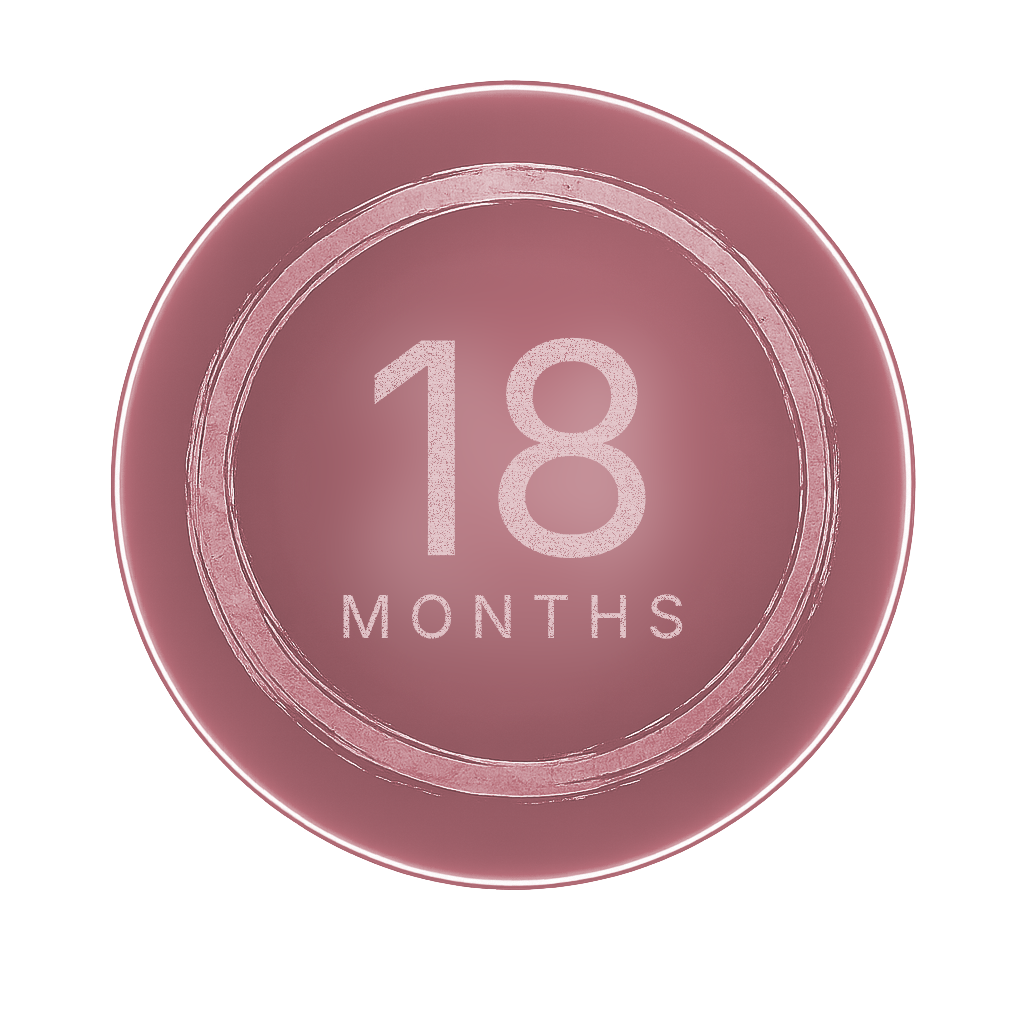
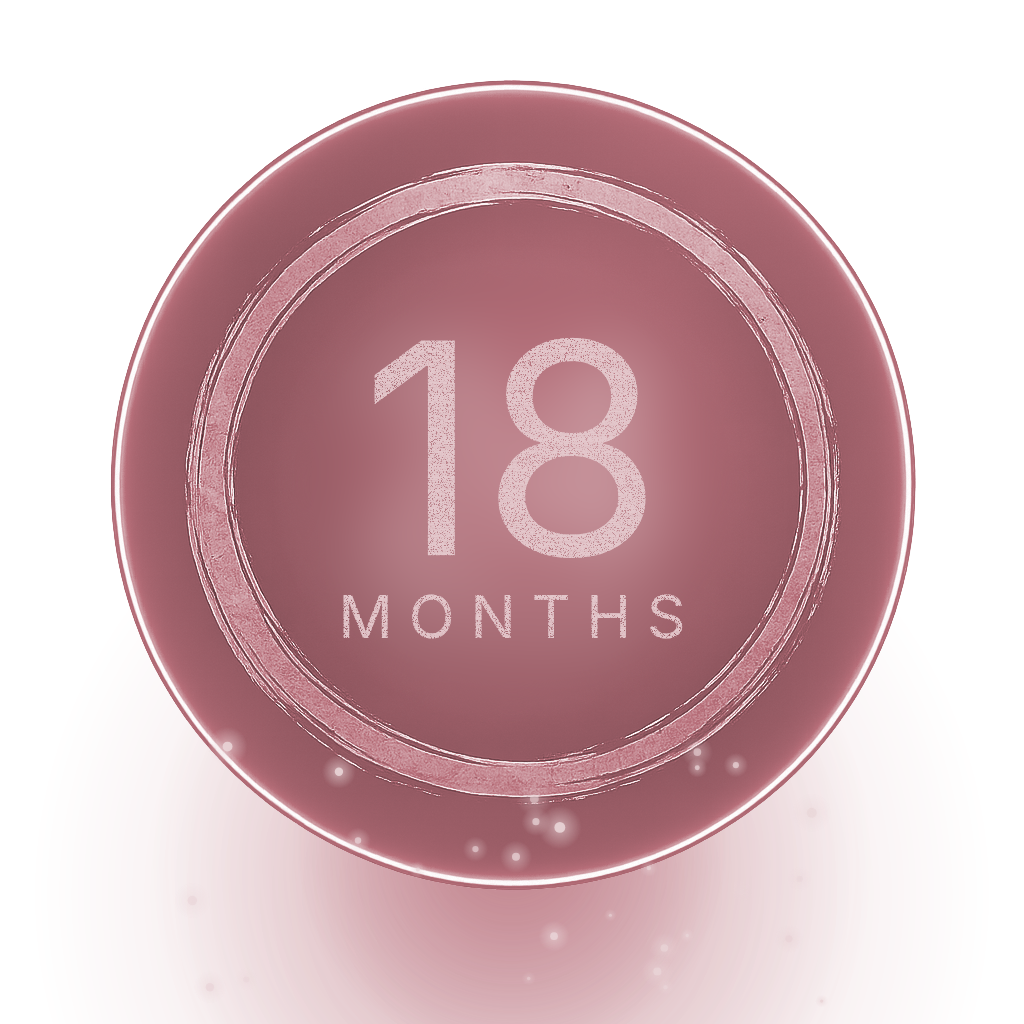
Add under-badge glow pool and sparkle particles in tint family
Three radial gradient passes pool the assigned color under the badge as
a directional bloom (bright core under the disc, wider bloom, faint
haze) instead of a 360° halo. Twenty-eight tinted sparkles seed off the
duration slug so each badge has a stable distinct pattern. Background
stays transparent for in-app use.

https://claude.ai/code/session_01TqmVcPLJNZuf7Q6XCPWgNk

Changed region(s): [[0.1875, 0.7188, 0.8125, 1.0], [0.3125, 0.7188, 0.3438, 0.7812], [0.6562, 0.7188, 0.6875, 0.75]]

diff --git a/scripts/generate-badges.ts b/scripts/generate-badges.ts
@@ -292,6 +292,70 @@ function applyTint(ctx: SKRSContext2D, hex: string) {
   ctx.putImageData(img, 0, 0)
 }
 
+// Paint a soft glow pooling underneath the badge — like the disc is
+// sitting on a glowing surface or casting light downward. No all-around
+// halo; the glow is a directional bloom centered below the disc.
+function drawOuterGlow(ctx: SKRSContext2D, hex: string) {
+  const [r, g, b] = hexToRgb(hex)
+
+  // Three downward-pooling passes: a bright core under the disc, a wider
+  // soft bloom, and a faint outer haze.
+  const passes = [
+    { cx: CX, cy: CY + 360, r0: 0,   r1: 220, alpha: 0.7  },
+    { cx: CX, cy: CY + 380, r0: 60,  r1: 360, alpha: 0.4  },
+    { cx: CX, cy: CY + 410, r0: 140, r1: 480, alpha: 0.22 },
+  ]
+
+  for (const p of passes) {
+    const grad = ctx.createRadialGradient(p.cx, p.cy, p.r0, p.cx, p.cy, p.r1)
+    grad.addColorStop(0, `rgba(${r}, ${g}, ${b}, ${p.alpha})`)
+    grad.addColorStop(1, `rgba(${r}, ${g}, ${b}, 0)`)
+    ctx.fillStyle = grad
+    ctx.fillRect(0, 0, SIZE, SIZE)
+  }
+}
+
+// Scatter sparkle particles in the tint family around the disc — small,
+// soft-edged dots concentrated below the badge with a few rising along
+// the sides. Drawn on top of everything so they read as light flecks.
+function drawSparkles(ctx: SKRSContext2D, hex: string, sparkleSeed: number) {
+  const [r, g, b] = hexToRgb(hex)
+  // Brighten toward white so sparkles register as light, not just tint.
+  const lr = Math.round(r + (255 - r) * 0.7)
+  const lg = Math.round(g + (255 - g) * 0.7)
+  const lb = Math.round(b + (255 - b) * 0.7)
+
+  let seed = sparkleSeed
+  const rand = () => {
+    seed = (seed * 1664525 + 1013904223) % 0x100000000
+    return seed / 0x100000000
+  }
+
+  const count = 28
+  for (let i = 0; i < count; i++) {
+    // Sparkles concentrate inside the glow pool under the badge.
+    const x = CX + (rand() - 0.5) * 640
+    const y = CY + 260 + rand() * 260
+    const size = 1.5 + rand() * 4
+    const alpha = 0.45 + rand() * 0.45
+
+    // Soft glow around each sparkle.
+    const glow = ctx.createRadialGradient(x, y, 0, x, y, size * 4)
+    glow.addColorStop(0, `rgba(${lr}, ${lg}, ${lb}, ${alpha * 0.7})`)
+    glow.addColorStop(1, `rgba(${lr}, ${lg}, ${lb}, 0)`)
+    ctx.fillStyle = glow
+    ctx.beginPath()
+    ctx.arc(x, y, size * 4, 0, Math.PI * 2)
+    ctx.fill()
+
+    // Bright core dot.
+    ctx.fillStyle = `rgba(${lr}, ${lg}, ${lb}, ${alpha})`
+    ctx.beginPath()
+    ctx.arc(x, y, size, 0, Math.PI * 2)
+    ctx.fill()
+  }
+}
+
 async function renderBadge(template: any, d: Duration): Promise<Buffer> {
   // Pre-tint the template so the disc-gray anchor maps exactly to the
   // assigned color. Doing this first (rather than at the end) avoids the
@@ -303,9 +367,17 @@ async function renderBadge(template: any, d: Duration): Promise<Buffer> {
 
   const canvas = createCanvas(SIZE, SIZE)
   const ctx = canvas.getContext('2d')
+
+  // Outer glow under the badge, then the badge, then sparkles on top.
+  drawOuterGlow(ctx, d.color)
   ctx.drawImage(tinted, 0, 0)
   eraseCenterText(ctx, tinted)
   drawText(ctx, d)
+  // Sparkles use the duration slug as a seed so each badge has a stable
+  // but distinct sparkle pattern.
+  const seed = Array.from(d.slug).reduce((a, c) => a + c.charCodeAt(0), 1)
+  drawSparkles(ctx, d.color, seed)
+
   return canvas.toBuffer('image/png')
 }
 
